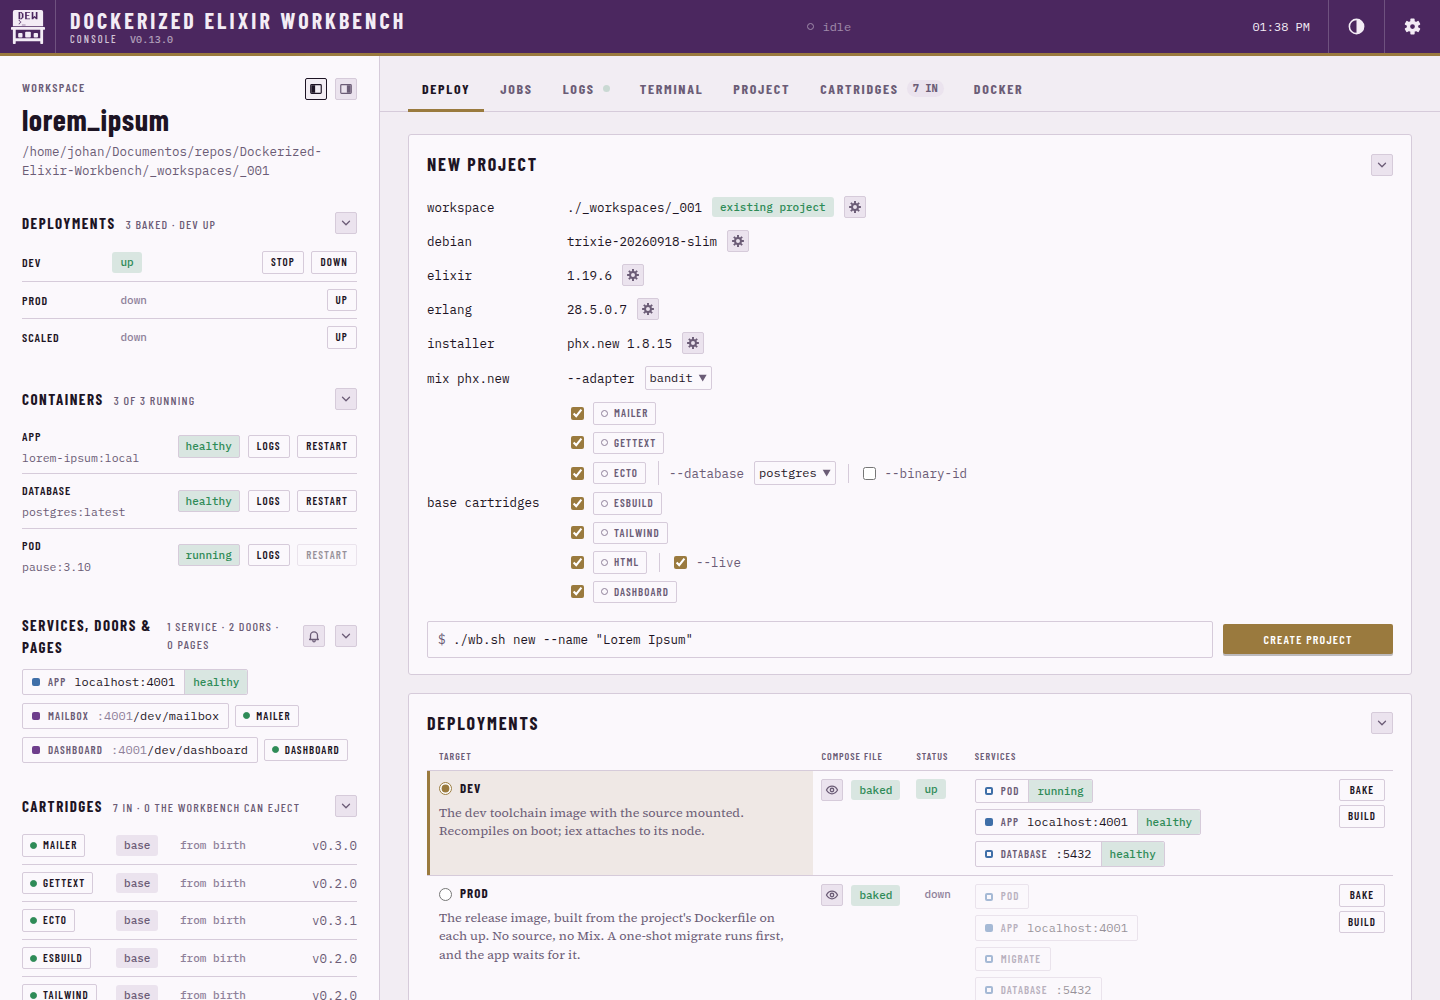
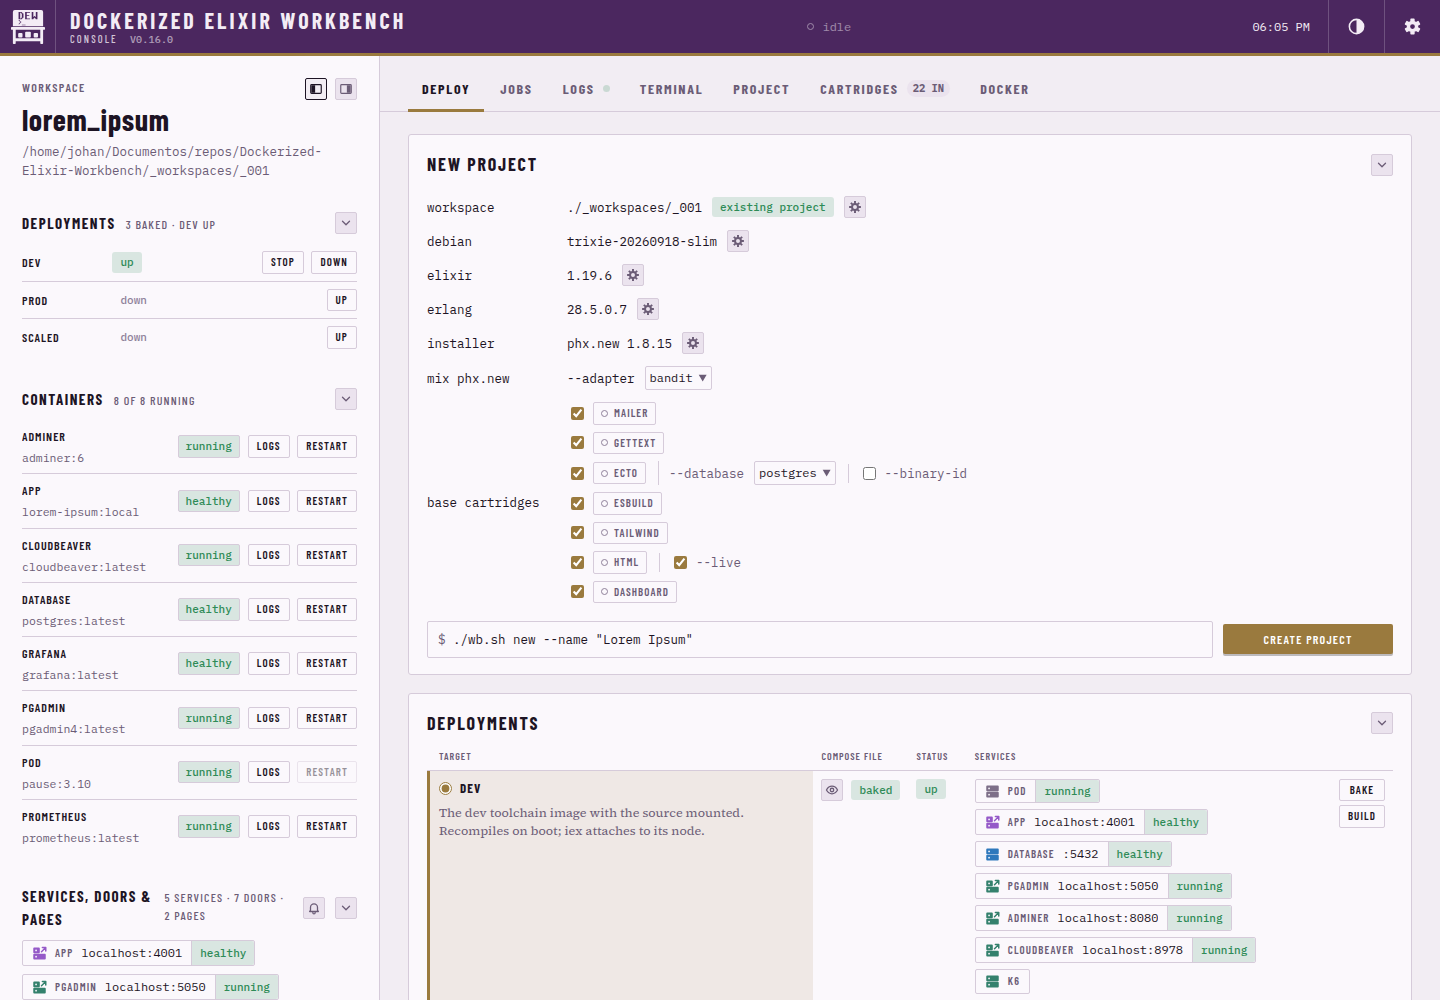
The README's four captures are taken again
The plates and the service buttons wear drawings, the rail's mentions
stand at its edge, and the project has grown. The shelf's picture is
the Inserted list, one box being left on offer; its caption says so.

diff --git a/CHANGELOG.md b/CHANGELOG.md
@@ -172,6 +172,16 @@ This project adheres to [Semantic Versioning](https://semver.org/spec/v2.0.0.htm
   down, the plates another; a mention that drops a line under a wide
   plate keeps the edge. Seen on the rail of a project with thirteen
   mentions, the house's faces loaded.
+- **The README's four captures are taken again.** The plates and the
+  service buttons wear drawings now, the rail's mentions stand at its
+  edge, and the project has grown, so the pictures of 2026-09-29 and
+  10-01 no longer showed the console as it is. The author took the
+  four again (2026-10-02): Deploy and the shelf at 1440 wide on the
+  light ground, the Interface tab's Terminal and Code parts on the
+  dark, Selenized and House's, cut to the drawer. The shelf's picture
+  is the Inserted list, twenty-two covers: one box is left on offer in
+  `lorem_ipsum` today, and a shelf with one box says nothing of what
+  the boxes are; its caption says so.
 
 ### Removed
 

diff --git a/README.md b/README.md
@@ -26,7 +26,7 @@ In the console, **Create project** generates a stock Phoenix project with its ba
 
 Every feature is a **box on the shelf**: a cover, its papers — what it installs, the need it answers, why it is shaped so — and the form of its options. Inserted, it is one commit in the project; ejected, one revert.
 
-![The shelf: the cartridges as boxes with their covers, filtered to the ones on offer](assets/readme/shelf.png)
+![The shelf: the cartridges as boxes with their covers — the twenty-two in the project](assets/readme/shelf.png)
 
 The console is the reader's to set. Its terminal and its code each wear a **theme off a shelf** — a file in `console/themes/`, in the keys VS Code uses — a face of their own, and every colour adjustable beside a sample that shows it as it lands: real logs with each tool's own ANSI, and a file with a line changed.
 
